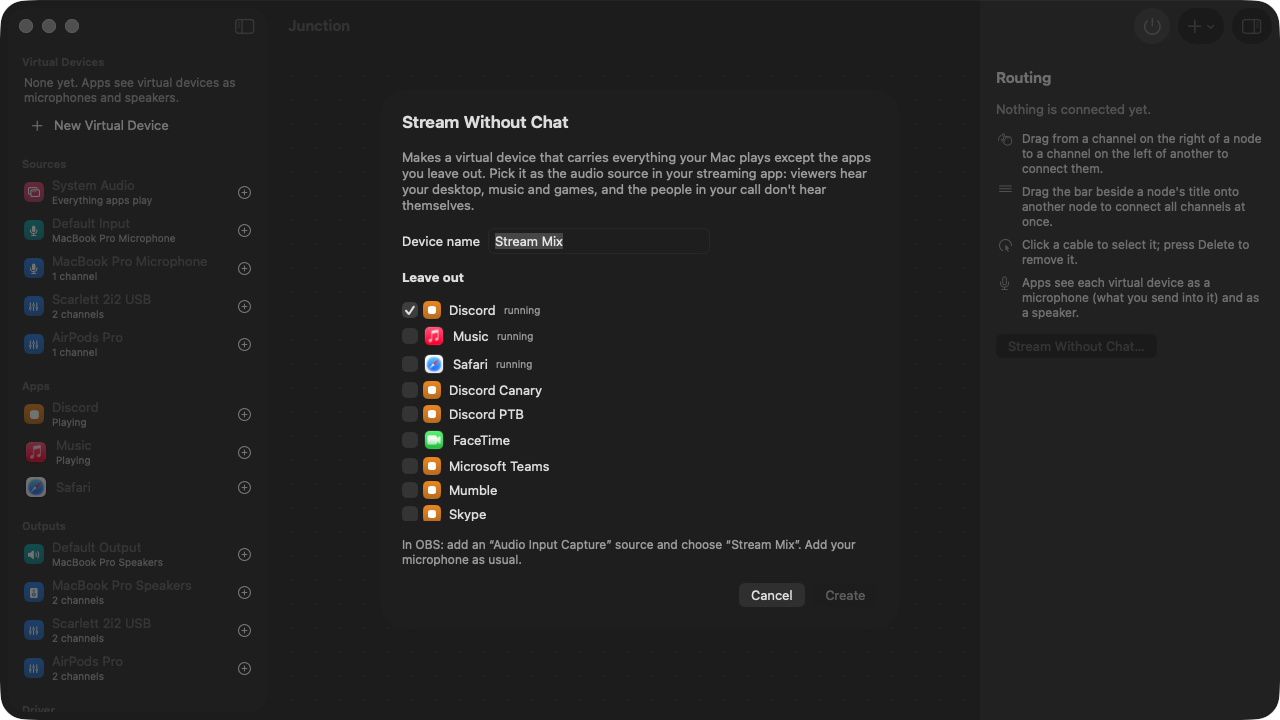
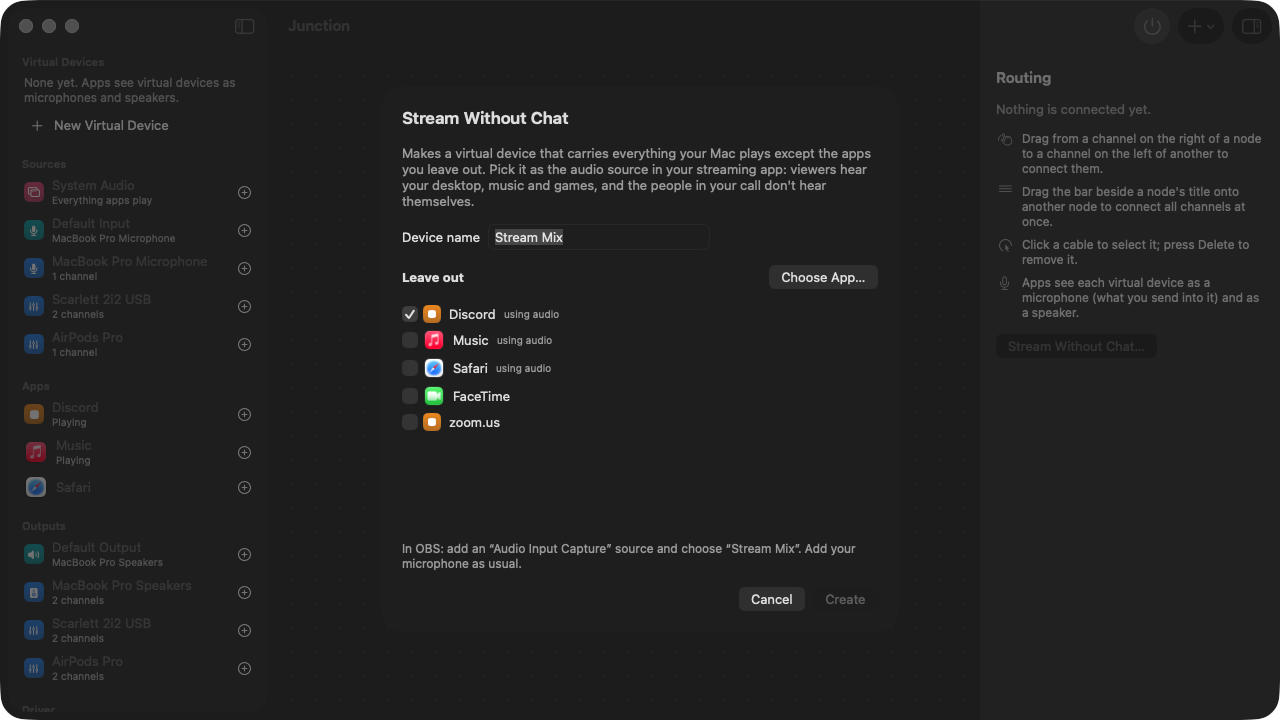
Stream Without Chat: offer only installed chat apps, add Choose App…
The sheet and the System Audio inspector listed every known chat app, installed or
not. They now offer apps using audio plus the known chat apps Launch Services finds
on this Mac (checked every few seconds), Discord is ticked only when present, an empty
list says so, and Choose App… picks any other app. Snapshot mode uses a made-up set of
installed apps; README screenshots of the sheet updated.

diff --git a/Sources/Junction/AppModel.swift b/Sources/Junction/AppModel.swift
@@ -4,6 +4,7 @@ import JunctionCore
 import Observation
 import os
 import SwiftUI
+import UniformTypeIdentifiers
 
 enum Selection: Hashable {
     case node(UUID)
@@ -28,6 +29,8 @@ final class AppModel {
     /// A problem to show in an alert (driver install, publishing).
     var alert: String?
     private(set) var isInstallingDriver = false
+    /// The known chat apps (`Templates.chatApps`) installed on this Mac.
+    private(set) var installedChatApps: [AppRef] = []
 
     /// Screenshots and demos: made-up devices, nothing saved, nothing routed.
     let isDemo: Bool
@@ -55,6 +58,7 @@ final class AppModel {
     func start() {
         guard !started else { return }
         started = true
+        refreshInstalledChatApps()
         if isDemo {
             Demo.load(into: self)
             return
@@ -89,7 +93,10 @@ final class AppModel {
             MainActor.assumeIsolated { AppModel.shared.pollMeters() }
         })
         timers.append(Timer.scheduledTimer(withTimeInterval: 3, repeats: true) { _ in
-            MainActor.assumeIsolated { AppModel.shared.refreshInventory() }
+            MainActor.assumeIsolated {
+                AppModel.shared.refreshInventory()
+                AppModel.shared.refreshInstalledChatApps()
+            }
         })
         replan(force: true)
     }
@@ -200,6 +207,32 @@ final class AppModel {
             }
         }
         if adopted != graph { graph = adopted }
+    }
+
+    /// Apps installed or removed while Junction runs show up within a few seconds. Demo mode uses made-up apps.
+    private func refreshInstalledChatApps() {
+        let installed = Templates.chatApps.filter { app in
+            isDemo ? Demo.installedChatApps.contains(app.bundleID)
+                : NSWorkspace.shared.urlForApplication(withBundleIdentifier: app.bundleID) != nil
+        }
+        if installed != installedChatApps { installedChatApps = installed }
+    }
+
+    /// The apps to offer for leaving out of a stream: using audio now, installed chat apps, and `picked`.
+    func chatCandidates(picked: [AppRef] = []) -> [AppRef] {
+        Templates.chatCandidates(usingAudio: inventory.apps.map(\.ref), installedChatApps: installedChatApps, picked: picked)
+    }
+
+    /// Asks for any app (one the chat list doesn't know) to leave out.
+    func chooseApp() -> AppRef? {
+        let panel = NSOpenPanel()
+        panel.allowedContentTypes = [.application]
+        panel.directoryURL = URL(fileURLWithPath: "/Applications", isDirectory: true)
+        panel.message = "Choose an app to leave out of the stream."
+        panel.prompt = "Leave Out"
+        guard panel.runModal() == .OK, let url = panel.url, let bundleID = Bundle(url: url)?.bundleIdentifier else { return nil }
+        let name = FileManager.default.displayName(atPath: url.path)
+        return AppRef(bundleID: bundleID, name: name.hasSuffix(".app") ? String(name.dropLast(4)) : name)
     }
 
     /// Core Audio restarted (a driver install, update or removal, or a crash): every tap, aggregate device and IOProc

diff --git a/Sources/Junction/JunctionApp.swift b/Sources/Junction/JunctionApp.swift
@@ -275,7 +275,8 @@ struct StreamTemplateSheet: View {
     @Environment(AppModel.self) private var model
     @Environment(\.dismiss) private var dismiss
     @State private var name = "Stream Mix"
-    @State private var chosen: Set<String> = ["com.hnc.Discord"]
+    @State private var chosen: Set<String> = []
+    @State private var picked: [AppRef] = []
 
     var body: some View {
         let candidates = candidates
@@ -285,9 +286,22 @@ struct StreamTemplateSheet: View {
                 .foregroundStyle(.secondary)
                 .fixedSize(horizontal: false, vertical: true)
             LabeledContent("Device name") { TextField("Stream Mix", text: $name).frame(maxWidth: 220) }
-            Text("Leave out").font(.headline)
+            HStack {
+                Text("Leave out").font(.headline)
+                Spacer()
+                Button("Choose App…") {
+                    guard let app = model.chooseApp() else { return }
+                    if !picked.contains(app) { picked.append(app) }
+                    chosen.insert(app.bundleID)
+                }
+            }
             ScrollView {
                 VStack(alignment: .leading, spacing: 6) {
+                    if candidates.isEmpty {
+                        Text("No chat apps found. Apps appear here once they play sound; Choose App… picks any other.")
+                            .foregroundStyle(.secondary)
+                            .fixedSize(horizontal: false, vertical: true)
+                    }
                     ForEach(candidates) { app in
                         Toggle(isOn: Binding(
                             get: { chosen.contains(app.bundleID) },
@@ -296,7 +310,7 @@ struct StreamTemplateSheet: View {
                                 NodeIcon(kind: .application(app), ports: PortCounts(inputs: 0, outputs: 2), size: 18)
                                 Text(app.name)
                                 if model.inventory.apps.contains(where: { $0.bundleID == app.bundleID }) {
-                                    Text("running").font(.caption).foregroundStyle(.secondary)
+                                    Text("using audio").font(.caption).foregroundStyle(.secondary)
                                 }
                             }
                         }
@@ -327,14 +341,8 @@ struct StreamTemplateSheet: View {
         }
         .padding(22)
         .frame(width: 520)
+        .onAppear { chosen = Templates.defaultExclusions(from: candidates) }
     }
 
-    private var candidates: [AppRef] {
-        var list = Templates.chatApps
-        for app in model.inventory.apps where !list.contains(where: { $0.bundleID == app.bundleID }) {
-            list.append(app.ref)
-        }
-        let running = Set(model.inventory.apps.map(\.bundleID))
-        return list.sorted { (running.contains($0.bundleID) ? 0 : 1, $0.name) < (running.contains($1.bundleID) ? 0 : 1, $1.name) }
-    }
+    private var candidates: [AppRef] { model.chatCandidates(picked: picked) }
 }

diff --git a/Sources/JunctionCore/Store.swift b/Sources/JunctionCore/Store.swift
@@ -57,6 +57,23 @@ public enum Templates {
         AppRef(bundleID: "com.teamspeak.TeamSpeak3", name: "TeamSpeak"),
     ]
 
+    /// Apps offered to leave out of a stream: apps using audio now, then the known chat apps that are installed and
+    /// the apps the user picked. Each appears once; apps using audio come first, each group sorted by name.
+    public static func chatCandidates(usingAudio: [AppRef], installedChatApps: [AppRef], picked: [AppRef] = []) -> [AppRef] {
+        var seen = Set<String>()
+        func unique(_ apps: [AppRef]) -> [AppRef] {
+            apps.filter { seen.insert($0.bundleID).inserted }
+                .sorted { $0.name.localizedStandardCompare($1.name) == .orderedAscending }
+        }
+        let first = unique(usingAudio)
+        return first + unique(installedChatApps + picked)
+    }
+
+    /// What Stream Without Chat leaves out unless the user changes it: every version of Discord on offer.
+    public static func defaultExclusions(from candidates: [AppRef]) -> Set<String> {
+        Set(candidates.map(\.bundleID).filter { $0.hasPrefix("com.hnc.Discord") })
+    }
+
     /// "Stream without chat": a virtual device named `deviceName` that carries everything apps play except the
     /// chosen chat apps. A streaming app records it; people in the call don't hear themselves on stream.
     /// Reuses a virtual device and system-audio node of the same name/kind when present. Returns the device.

diff --git a/Tests/JunctionCoreTests/PlannerTests.swift b/Tests/JunctionCoreTests/PlannerTests.swift
@@ -21,6 +21,21 @@ enum Demo {
 }
 
 final class PlannerTests: XCTestCase {
+    func testChatCandidatesOnlyOfferInstalledOrPlayingApps() {
+        let zoom = AppRef(bundleID: "us.zoom.xos", name: "zoom.us")
+        let faceTime = AppRef(bundleID: "com.apple.FaceTime", name: "FaceTime")
+        let music = AppRef(bundleID: "com.apple.Music", name: "Music")
+        let picked = AppRef(bundleID: "org.example.Chat", name: "Another Chat")
+        let candidates = Templates.chatCandidates(usingAudio: [music, Demo.discord],
+                                                  installedChatApps: [zoom, Demo.discord, faceTime], picked: [picked, music])
+        // Using audio first, then installed chat apps and picked apps; no duplicates, nothing else from the known list.
+        XCTAssertEqual(candidates.map(\.name), ["Discord", "Music", "Another Chat", "FaceTime", "zoom.us"])
+        XCTAssertEqual(Templates.defaultExclusions(from: candidates), ["com.hnc.Discord"])
+        XCTAssertTrue(Templates.chatCandidates(usingAudio: [], installedChatApps: []).isEmpty)
+        let canary = AppRef(bundleID: "com.hnc.DiscordCanary", name: "Discord Canary")
+        XCTAssertEqual(Templates.defaultExclusions(from: [canary, zoom]), ["com.hnc.DiscordCanary"])
+    }
+
     func testStreamWithoutChatTemplate() throws {
         var graph = Graph()
         let device = Templates.streamWithoutChat(&graph, excluding: [Demo.discord])

diff --git a/Sources/Junction/Inspector.swift b/Sources/Junction/Inspector.swift
@@ -204,11 +204,17 @@ private struct ExcludedApps: View {
                             ForEach(running) { app in Button(app.name) { set(excluded + [app]) } }
                         }
                     }
-                    Section("Chat apps") {
-                        ForEach(Templates.chatApps.filter { app in !excluded.contains(app) && !running.contains(app) }) { app in
-                            Button(app.name) { set(excluded + [app]) }
+                    let chat = model.installedChatApps.filter { app in !excluded.contains(app) && !running.contains(app) }
+                    if !chat.isEmpty {
+                        Section("Chat apps") {
+                            ForEach(chat) { app in Button(app.name) { set(excluded + [app]) } }
                         }
                     }
+                    Divider()
+                    Button("Choose App…") {
+                        if let app = model.chooseApp(), !excluded.contains(where: { $0.bundleID == app.bundleID }) { set(excluded + [app]) }
+                    }
+                    .disabled(model.isDemo)
                 }
                 .fixedSize()
             }

diff --git a/Sources/Junction/Snapshot.swift b/Sources/Junction/Snapshot.swift
@@ -5,6 +5,8 @@ import SwiftUI
 /// A made-up setup for screenshots and demos: nothing is read from or sent to Core Audio, nothing is saved.
 enum Demo {
     static let discord = AppRef(bundleID: "com.hnc.Discord", name: "Discord")
+    /// Chat apps the made-up Mac has installed (screenshots never show the real Mac's apps).
+    static let installedChatApps: Set<String> = ["com.hnc.Discord", "us.zoom.xos", "com.apple.FaceTime"]
 
     @MainActor static func load(into model: AppModel) {
         let stream = VirtualDevice(name: "Stream Mix")

diff --git a/README.md b/README.md
@@ -34,7 +34,8 @@ Junction**), so it is heard only where you route it.
 ### Stream without chat
 
 **Stream Without Chat…** (File menu, empty canvas, inspector) builds the common setup in one step: a virtual device
-("Stream Mix") fed by System Audio with Discord (or any chat app) left out. In OBS add an Audio Input Capture source
+("Stream Mix") fed by System Audio with Discord (or any chat app) left out. It offers the apps using audio and the
+chat apps installed on your Mac; **Choose App…** adds any other. In OBS add an Audio Input Capture source
 for "Stream Mix": viewers hear the desktop, music, games and DAW; the people in the call don't hear themselves. Your
 own monitoring is unchanged.
 
